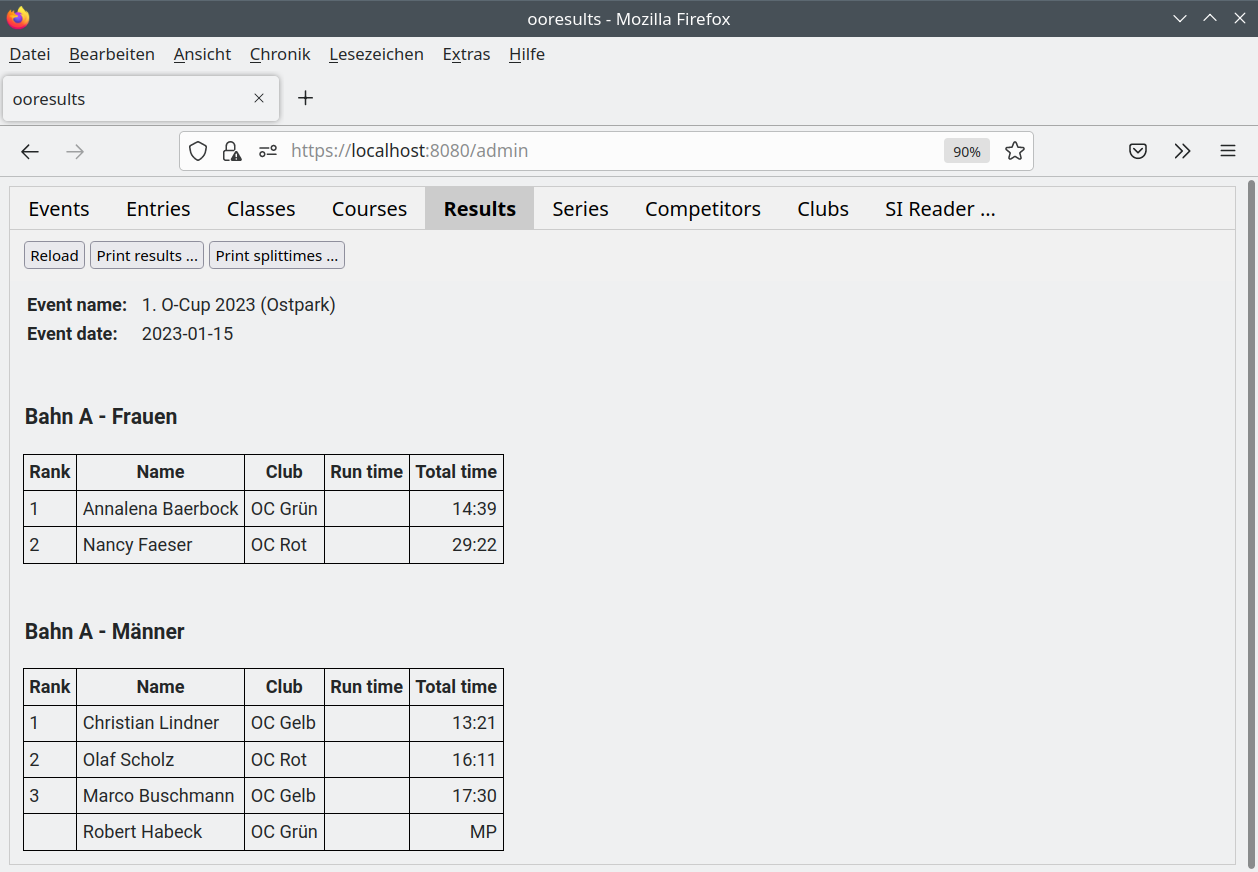
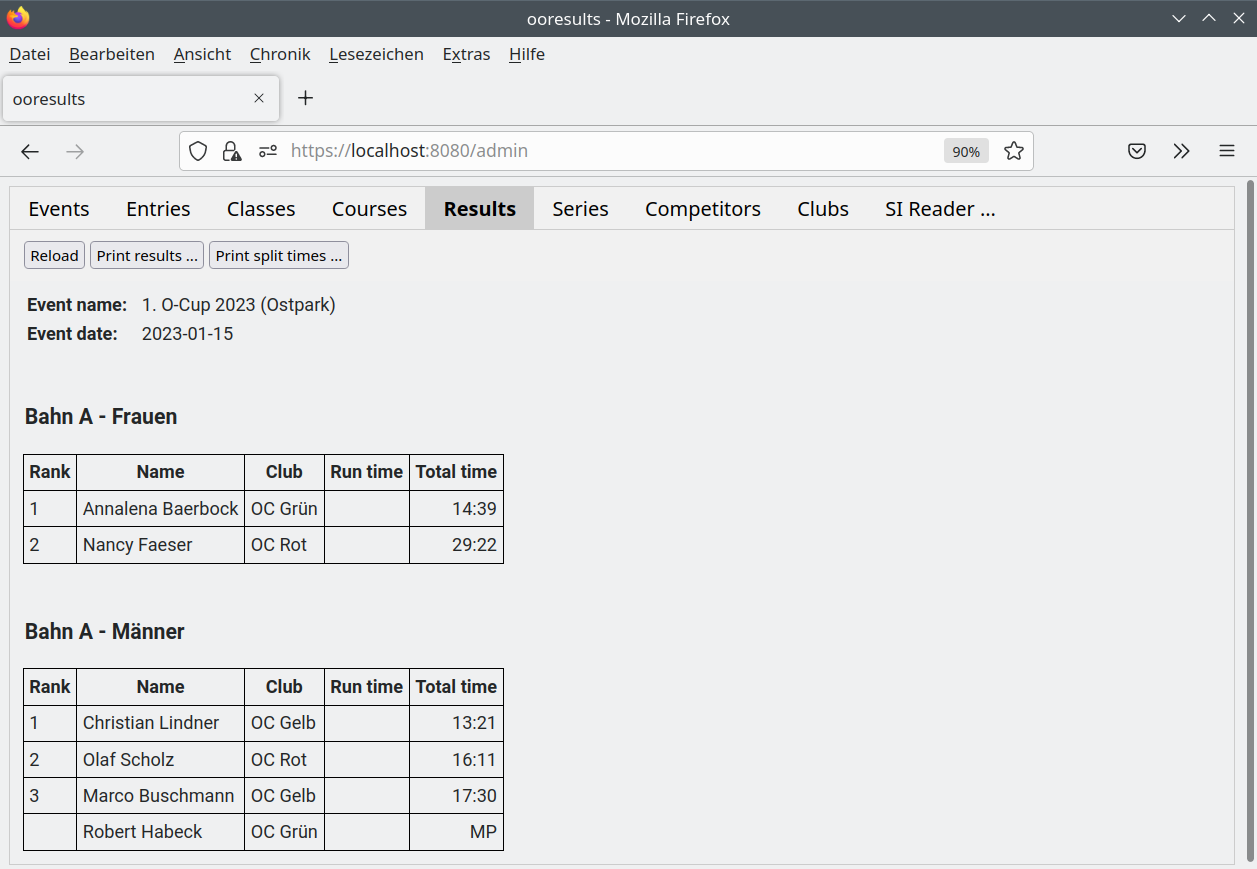
Notes on importing course data and exporting result lists added to the documentation

diff --git a/ooresults/templates/results_tab_content.html b/ooresults/templates/results_tab_content.html
@@ -6,7 +6,7 @@ $def with (results)
     <!-- Trigger/Open The Modal -->
     <button id="res.myBtnReload" onclick="res_update()">Reload</button>
     <button id="res.myBtnPdfResult" onclick="res_myPdfResult()">Print results ...</button>
-    <button id="res.myBtnPdfSplittimes" onclick="res_myPdfSplittimes()">Print splittimes ...</button>
+    <button id="res.myBtnPdfSplittimes" onclick="res_myPdfSplittimes()">Print split times ...</button>
   </div>
 
   <div id="res.results" class="data">

diff --git a/docs/source/tutorial_3.rst b/docs/source/tutorial_3.rst
@@ -12,10 +12,15 @@ Anzeige der Ergebnisse
 
 1. Anklicken des Registerblatts "Results"
 
-Mit den Funktionen "Print results ..." bzw. "Print Splittimes ... " können PDF-Dateien
+Mit den Funktionen "Print results ..." bzw. "Print split times ... " können PDF-Dateien
 mit den Ergebnissen bzw. Zwischenzeiten erstellt werden.
 
 .. image:: images/results_1_edited.png
+
+.. note::
+
+   Ein Exportieren der Ergebnisse in verschiedene Formate (einschliesslich IOF XML 3.0 ResultList)
+   ist über die Funktion "Export ..." im Registerblatt "Entries" möglich.
 
 
 Berechnung und Anzeige des Gesamtergebnis

diff --git a/docs/source/tutorial_1.rst b/docs/source/tutorial_1.rst
@@ -146,6 +146,11 @@ Für die Tutorial-Wettkämpfe wird eine Bahn mit den Kontrollstationen "121-124-
 
 .. image:: images/course_2.png
 
+.. note::
+
+   Anstatt die Bahndaten manuell einzugeben können die Bahndaten auch mit der Funktion "Import ..." importiert werden.
+   Die Bahndaten müssen dazu im Format IOF XML 3.0 CourseData vorliegen.
+
 
 Anlegen der Kategorien
 ----------------------
